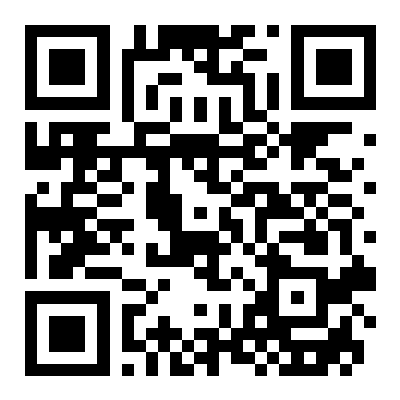
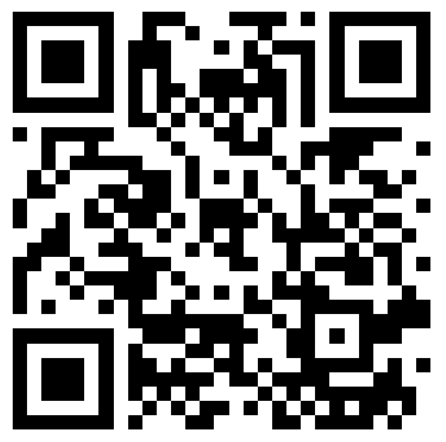
update discord link and QR code

diff --git a/README_zh.md b/README_zh.md
@@ -15,7 +15,7 @@
     <a href="https://www.youtube.com/@OmAILab_global">
     <img alt="YouTube" src="https://img.shields.io/badge/%F0%9F%93%A3%20YouTube-%E8%AE%A2%E9%98%85%40OmAI%20lab-FF0000">
   </a>
-  <a href="https://discord.gg/TWZrj32x">
+  <a href="https://discord.gg/SEVNjyXPef">
     <img alt="Discord" src="https://img.shields.io/badge/%F0%9F%93%A3%20Discord-%E5%8A%A0%E5%85%A5%40OmAI%20lab-5865F2">
   </a>
   <br>
@@ -64,7 +64,7 @@ VLX-Go 基于 [OmTrackVLA](https://github.com/om-ai-lab/OmTrackVLA) 的技术路
         <img src="assets/figures/WeChat.png" alt="VLX 微信社群二维码" width="220">
       </td>
       <td align="center">
-        <a href="https://discord.gg/TWZrj32x">
+        <a href="https://discord.gg/SEVNjyXPef">
           <img src="assets/figures/Discord.png" alt="VLX Discord 社区二维码" width="220">
         </a>
       </td>

diff --git a/README.md b/README.md
@@ -15,7 +15,7 @@
   <a href="https://www.youtube.com/@OmAILab_global">
     <img alt="YouTube" src="https://img.shields.io/badge/%F0%9F%93%A3%20YouTube-Subscribe%20%40OmAI%20lab-FF0000">
   </a>
-  <a href="https://discord.gg/TWZrj32x">
+  <a href="https://discord.gg/SEVNjyXPef">
     <img alt="Discord" src="https://img.shields.io/badge/%F0%9F%93%A3%20Discord-Join%20%40OmAI%20lab-5865F2">
   </a>
   <br>
@@ -64,7 +64,7 @@ Join the VLX community to connect with developers, explore applications, share f
         <img src="assets/figures/WeChat.png" alt="VLX official WeChat QR code" width="220">
       </td>
       <td align="center">
-        <a href="https://discord.gg/TWZrj32x">
+        <a href="https://discord.gg/SEVNjyXPef">
           <img src="assets/figures/Discord.png" alt="VLX Discord community QR code" width="220">
         </a>
       </td>
